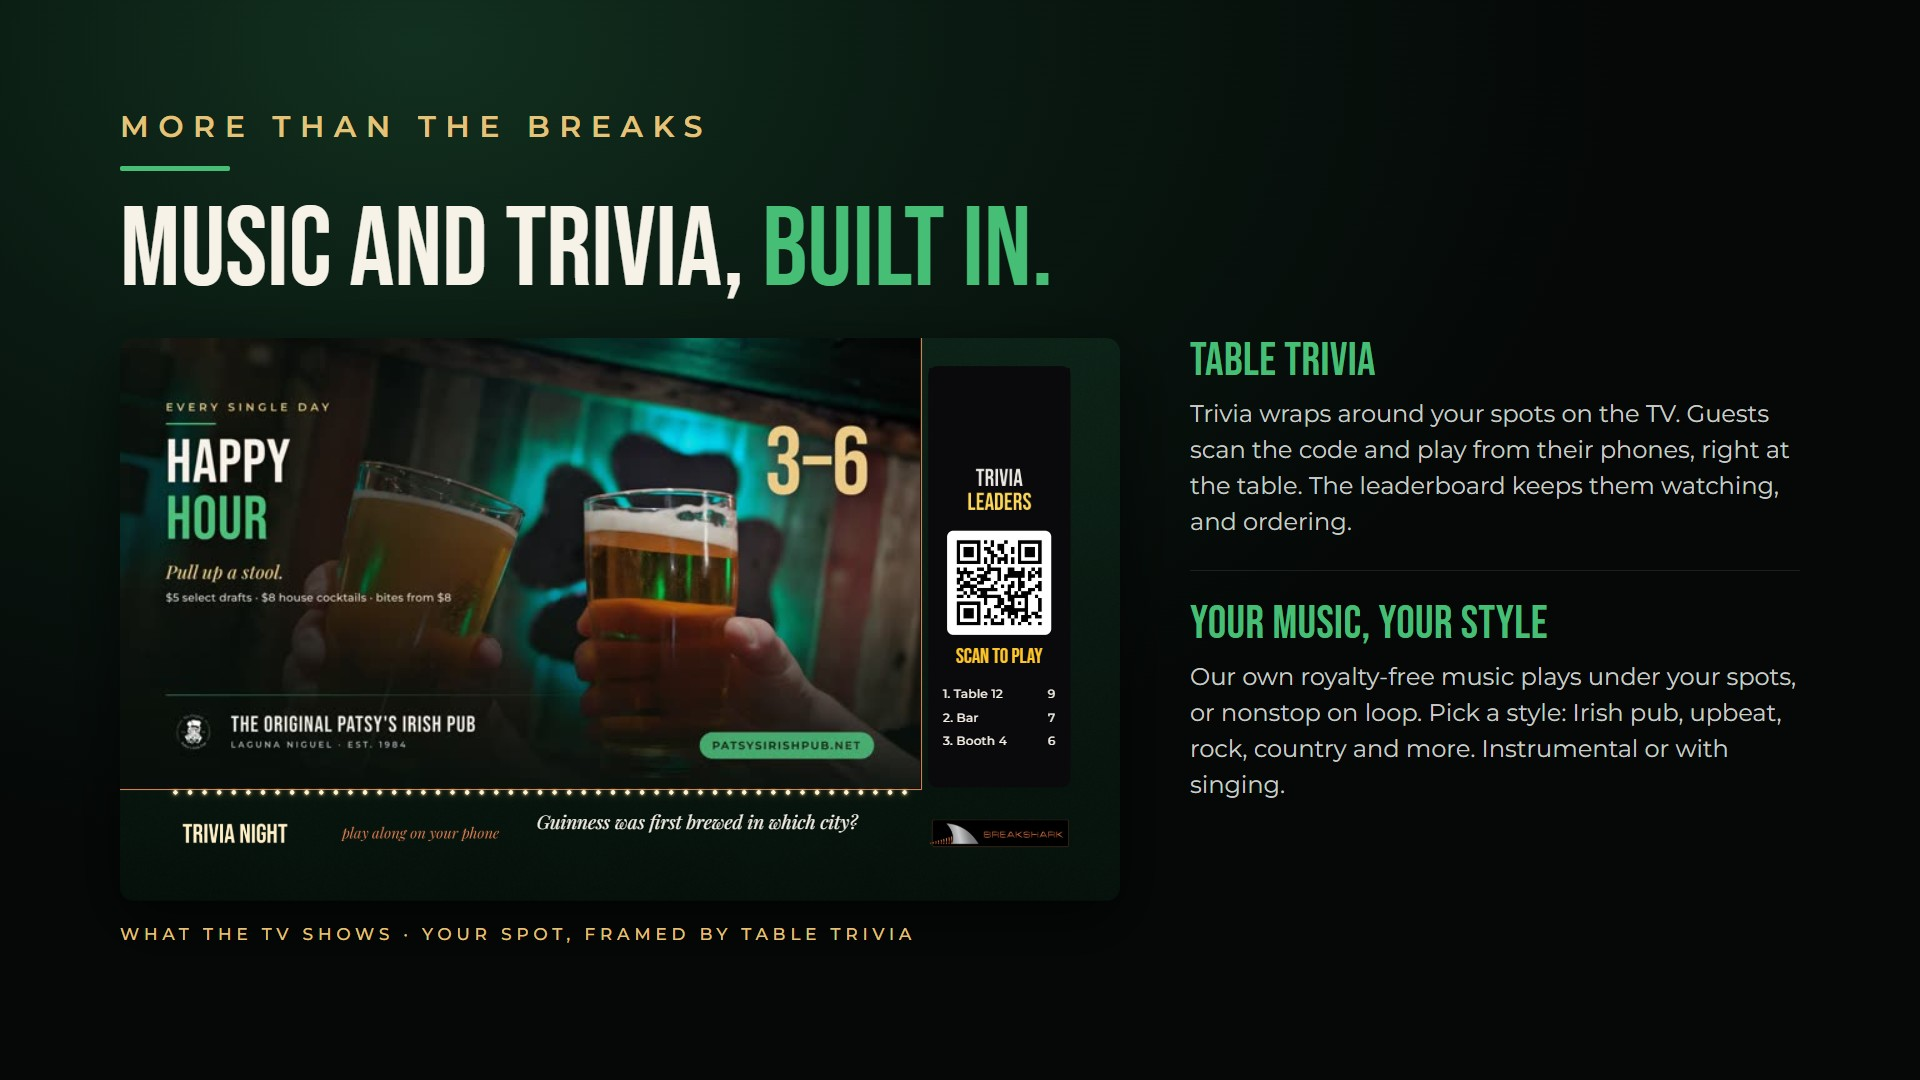
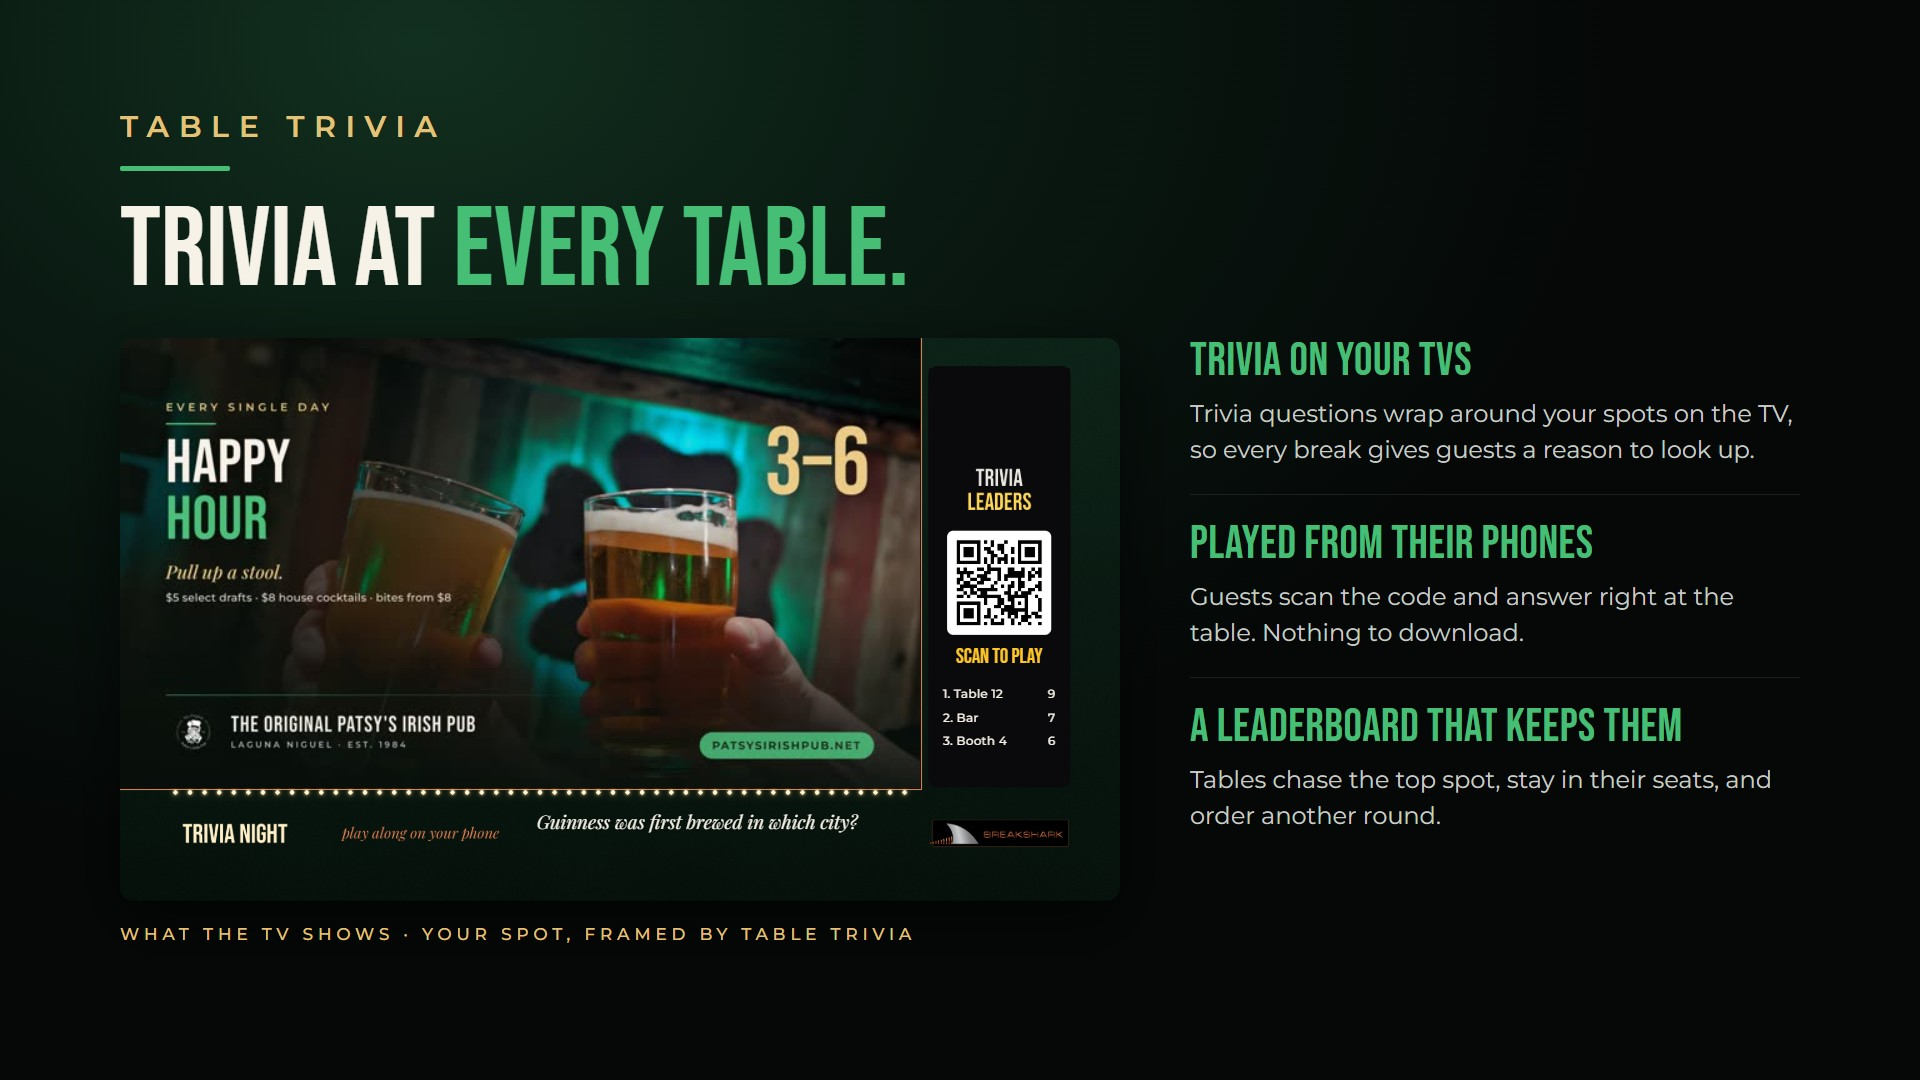
Patsy's deck: match El Viejon v3: music gets its own slide (we don't kill the vibe), trivia slide trivia-only. 19 slides.
Claude-Session: https://claude.ai/code/session_01LC3WW37KTGUweEZXA6pEhV

diff --git a/patsys-v4/index.html b/patsys-v4/index.html
@@ -37,7 +37,7 @@ html,body{margin:0;height:100%;background:var(--bg);color:var(--ink);font-family
 <div id="hint">Tap the right side or swipe to go forward</div>
 <div id="load"><div>Loading the deck…</div><div class="b"><i id="lp"></i></div><div id="lt" style="opacity:.6;font-size:13px"></div></div>
 <script>
-const SLIDES = [{"img": "s/p-01.jpg?v=10", "v": [{"src": "https://media.breakshark.com/patsys-v4/v/room.mp4?v=10", "x": 0, "y": 0, "w": 1920, "h": 1080, "r": "0px", "sound": false}], "ov": "s/ov-01.png?v=10"}, {"img": "s/p-02.jpg?v=10", "v": [{"src": "https://media.breakshark.com/patsys-v4/v/s01.mp4?v=10", "x": 1080, "y": 300, "w": 720, "h": 405, "r": "14px", "sound": false}]}, {"img": "s/p-03.jpg?v=10", "v": [{"src": "https://media.breakshark.com/patsys-v4/v/how.mp4?v=10", "x": 900, "y": 250, "w": 900, "h": 576, "r": "14px", "sound": false}]}, {"img": "s/p-04.jpg?v=10", "v": [{"src": "https://media.breakshark.com/patsys-v4/v/sbx.mp4?v=10", "x": 0, "y": 0, "w": 1920, "h": 1080, "r": "14px", "sound": false}], "ov": "s/ov-04.png?v=10"}, {"img": "s/p-05.jpg?v=10", "v": []}, {"img": "s/p-06.jpg?v=10", "v": []}, {"img": "s/p-07.jpg?v=10", "v": [{"src": "https://media.breakshark.com/patsys-v4/v/s02.mp4?v=10", "x": 120, "y": 230, "w": 820, "h": 461, "r": "14px", "sound": false}, {"src": "https://media.breakshark.com/patsys-v4/v/s03.mp4?v=10", "x": 980, "y": 230, "w": 820, "h": 461, "r": "14px", "sound": false}, {"src": "https://media.breakshark.com/patsys-v4/v/s04.mp4?v=10", "x": 120, "y": 720, "w": 500, "h": 281, "r": "14px", "sound": false}, {"src": "https://media.breakshark.com/patsys-v4/v/s07.mp4?v=10", "x": 650, "y": 720, "w": 500, "h": 281, "r": "14px", "sound": false}]}, {"img": "s/p-08.jpg?v=10", "v": [{"src": "https://media.breakshark.com/patsys-v4/v/s08.mp4?v=10", "x": 120, "y": 230, "w": 820, "h": 461, "r": "14px", "sound": false}, {"src": "https://media.breakshark.com/patsys-v4/v/s09.mp4?v=10", "x": 980, "y": 230, "w": 820, "h": 461, "r": "14px", "sound": false}, {"src": "https://media.breakshark.com/patsys-v4/v/s05.mp4?v=10", "x": 120, "y": 720, "w": 500, "h": 281, "r": "14px", "sound": false}, {"src": "https://media.breakshark.com/patsys-v4/v/s10.mp4?v=10", "x": 650, "y": 720, "w": 500, "h": 281, "r": "14px", "sound": false}]}, {"img": "s/p-09.jpg?v=10", "v": [{"src": "https://media.breakshark.com/patsys-v4/v/s19.mp4?v=10", "x": 120, "y": 230, "w": 820, "h": 461, "r": "14px", "sound": false}, {"src": "https://media.breakshark.com/patsys-v4/v/s18.mp4?v=10", "x": 980, "y": 230, "w": 820, "h": 461, "r": "14px", "sound": false}, {"src": "https://media.breakshark.com/patsys-v4/v/s12.mp4?v=10", "x": 120, "y": 720, "w": 540, "h": 304, "r": "14px", "sound": false}, {"src": "https://media.breakshark.com/patsys-v4/v/s06.mp4?v=10", "x": 690, "y": 720, "w": 540, "h": 304, "r": "14px", "sound": false}, {"src": "https://media.breakshark.com/patsys-v4/v/s11.mp4?v=10", "x": 1260, "y": 720, "w": 540, "h": 304, "r": "14px", "sound": false}]}, {"img": "s/p-10.jpg?v=10", "v": [{"src": "https://media.breakshark.com/patsys-v4/v/s13.mp4?v=10", "x": 860, "y": 150, "w": 460, "h": 259, "r": "14px", "sound": false}, {"src": "https://media.breakshark.com/patsys-v4/v/s14.mp4?v=10", "x": 1350, "y": 150, "w": 460, "h": 259, "r": "14px", "sound": false}, {"src": "https://media.breakshark.com/patsys-v4/v/s15.mp4?v=10", "x": 860, "y": 440, "w": 460, "h": 259, "r": "14px", "sound": false}, {"src": "https://media.breakshark.com/patsys-v4/v/s16.mp4?v=10", "x": 1350, "y": 440, "w": 460, "h": 259, "r": "14px", "sound": false}]}, {"img": "s/p-11.jpg?v=10", "v": [{"src": "https://media.breakshark.com/patsys-v4/v/s17b.mp4?v=10", "x": 120, "y": 250, "w": 960, "h": 540, "r": "14px", "sound": false}]}, {"img": "s/x-01.jpg?v=12", "v": [{"src": "https://media.breakshark.com/patsys-v4/v/after-hours.mp4?v=1", "x": 980, "y": 338, "w": 820, "h": 461, "r": "14px", "sound": false}]}, {"img": "s/x-02.jpg?v=12", "v": []}, {"img": "s/p-12.jpg?v=10", "v": []}, {"img": "s/p-13.jpg?v=10", "v": []}, {"img": "s/p-14.jpg?v=10", "v": []}, {"img": "s/p-15.jpg?v=10", "v": [{"src": "https://media.breakshark.com/patsys-v4/v/reel.mp4?v=10", "x": 760, "y": 200, "w": 1040, "h": 585, "r": "14px", "sound": true}]}, {"img": "s/p-16.webp?v=10", "v": [], "frame": {"src": "https://drive.google.com/file/d/1PkXY2QgrQUECcYuEOcghGNN9aMUPo6uv/preview", "x": 760, "y": 200, "w": 1040, "h": 585}}];
+const SLIDES = [{"img": "s/p-01.jpg?v=10", "v": [{"src": "https://media.breakshark.com/patsys-v4/v/room.mp4?v=10", "x": 0, "y": 0, "w": 1920, "h": 1080, "r": "0px", "sound": false}], "ov": "s/ov-01.png?v=10"}, {"img": "s/p-02.jpg?v=10", "v": [{"src": "https://media.breakshark.com/patsys-v4/v/s01.mp4?v=10", "x": 1080, "y": 300, "w": 720, "h": 405, "r": "14px", "sound": false}]}, {"img": "s/p-03.jpg?v=10", "v": [{"src": "https://media.breakshark.com/patsys-v4/v/how.mp4?v=10", "x": 900, "y": 250, "w": 900, "h": 576, "r": "14px", "sound": false}]}, {"img": "s/p-04.jpg?v=10", "v": [{"src": "https://media.breakshark.com/patsys-v4/v/sbx.mp4?v=10", "x": 0, "y": 0, "w": 1920, "h": 1080, "r": "14px", "sound": false}], "ov": "s/ov-04.png?v=10"}, {"img": "s/p-05.jpg?v=10", "v": []}, {"img": "s/p-06.jpg?v=10", "v": []}, {"img": "s/p-07.jpg?v=10", "v": [{"src": "https://media.breakshark.com/patsys-v4/v/s02.mp4?v=10", "x": 120, "y": 230, "w": 820, "h": 461, "r": "14px", "sound": false}, {"src": "https://media.breakshark.com/patsys-v4/v/s03.mp4?v=10", "x": 980, "y": 230, "w": 820, "h": 461, "r": "14px", "sound": false}, {"src": "https://media.breakshark.com/patsys-v4/v/s04.mp4?v=10", "x": 120, "y": 720, "w": 500, "h": 281, "r": "14px", "sound": false}, {"src": "https://media.breakshark.com/patsys-v4/v/s07.mp4?v=10", "x": 650, "y": 720, "w": 500, "h": 281, "r": "14px", "sound": false}]}, {"img": "s/p-08.jpg?v=10", "v": [{"src": "https://media.breakshark.com/patsys-v4/v/s08.mp4?v=10", "x": 120, "y": 230, "w": 820, "h": 461, "r": "14px", "sound": false}, {"src": "https://media.breakshark.com/patsys-v4/v/s09.mp4?v=10", "x": 980, "y": 230, "w": 820, "h": 461, "r": "14px", "sound": false}, {"src": "https://media.breakshark.com/patsys-v4/v/s05.mp4?v=10", "x": 120, "y": 720, "w": 500, "h": 281, "r": "14px", "sound": false}, {"src": "https://media.breakshark.com/patsys-v4/v/s10.mp4?v=10", "x": 650, "y": 720, "w": 500, "h": 281, "r": "14px", "sound": false}]}, {"img": "s/p-09.jpg?v=10", "v": [{"src": "https://media.breakshark.com/patsys-v4/v/s19.mp4?v=10", "x": 120, "y": 230, "w": 820, "h": 461, "r": "14px", "sound": false}, {"src": "https://media.breakshark.com/patsys-v4/v/s18.mp4?v=10", "x": 980, "y": 230, "w": 820, "h": 461, "r": "14px", "sound": false}, {"src": "https://media.breakshark.com/patsys-v4/v/s12.mp4?v=10", "x": 120, "y": 720, "w": 540, "h": 304, "r": "14px", "sound": false}, {"src": "https://media.breakshark.com/patsys-v4/v/s06.mp4?v=10", "x": 690, "y": 720, "w": 540, "h": 304, "r": "14px", "sound": false}, {"src": "https://media.breakshark.com/patsys-v4/v/s11.mp4?v=10", "x": 1260, "y": 720, "w": 540, "h": 304, "r": "14px", "sound": false}]}, {"img": "s/p-10.jpg?v=10", "v": [{"src": "https://media.breakshark.com/patsys-v4/v/s13.mp4?v=10", "x": 860, "y": 150, "w": 460, "h": 259, "r": "14px", "sound": false}, {"src": "https://media.breakshark.com/patsys-v4/v/s14.mp4?v=10", "x": 1350, "y": 150, "w": 460, "h": 259, "r": "14px", "sound": false}, {"src": "https://media.breakshark.com/patsys-v4/v/s15.mp4?v=10", "x": 860, "y": 440, "w": 460, "h": 259, "r": "14px", "sound": false}, {"src": "https://media.breakshark.com/patsys-v4/v/s16.mp4?v=10", "x": 1350, "y": 440, "w": 460, "h": 259, "r": "14px", "sound": false}]}, {"img": "s/p-11.jpg?v=10", "v": [{"src": "https://media.breakshark.com/patsys-v4/v/s17b.mp4?v=10", "x": 120, "y": 250, "w": 960, "h": 540, "r": "14px", "sound": false}]}, {"img": "s/x-01.jpg?v=14", "v": [{"src": "https://media.breakshark.com/patsys-v4/v/after-hours.mp4?v=1", "x": 980, "y": 338, "w": 820, "h": 461, "r": "14px", "sound": false}]}, {"img": "s/x-03.jpg?v=14", "v": []}, {"img": "s/x-02.jpg?v=14", "v": []}, {"img": "s/p-12.jpg?v=10", "v": []}, {"img": "s/p-13.jpg?v=10", "v": []}, {"img": "s/p-14.jpg?v=10", "v": []}, {"img": "s/p-15.jpg?v=10", "v": [{"src": "https://media.breakshark.com/patsys-v4/v/reel.mp4?v=10", "x": 760, "y": 200, "w": 1040, "h": 585, "r": "14px", "sound": true}]}, {"img": "s/p-16.webp?v=10", "v": [], "frame": {"src": "https://drive.google.com/file/d/1PkXY2QgrQUECcYuEOcghGNN9aMUPo6uv/preview", "x": 760, "y": 200, "w": 1040, "h": 585}}];
 const stage = document.getElementById('stage'), dots = document.getElementById('dots');
 let cur = 0;
 SLIDES.forEach((s, i) => {
@@ -101,7 +101,7 @@ setInterval(kick, 1500);
 addEventListener('mousemove', wake); addEventListener('touchstart', wake, { passive: true });
 setTimeout(() => document.getElementById('hint').style.opacity = 0, 4000);
 // first-load: fetch everything so it plays smoothly and keeps working offline
-const ASSETS = ["./", "index.html", "manifest.json", "icon.png", "logo.png", "s/p-01.jpg?v=10", "s/p-02.jpg?v=10", "s/p-03.jpg?v=10", "s/p-04.jpg?v=10", "s/p-05.jpg?v=10", "s/p-06.jpg?v=10", "s/p-07.jpg?v=10", "s/p-08.jpg?v=10", "s/p-09.jpg?v=10", "s/p-10.jpg?v=10", "s/p-11.jpg?v=10", "s/p-12.jpg?v=10", "s/p-13.jpg?v=10", "s/p-14.jpg?v=10", "s/p-15.jpg?v=10", "s/p-16.webp?v=10", "s/ov-01.png?v=10", "s/ov-04.png?v=10", "https://media.breakshark.com/patsys-v4/v/how.mp4?v=10", "https://media.breakshark.com/patsys-v4/v/reel.mp4?v=10", "https://media.breakshark.com/patsys-v4/v/room.mp4?v=10", "https://media.breakshark.com/patsys-v4/v/s01.mp4?v=10", "https://media.breakshark.com/patsys-v4/v/s02.mp4?v=10", "https://media.breakshark.com/patsys-v4/v/s03.mp4?v=10", "https://media.breakshark.com/patsys-v4/v/s04.mp4?v=10", "https://media.breakshark.com/patsys-v4/v/s05.mp4?v=10", "https://media.breakshark.com/patsys-v4/v/s06.mp4?v=10", "https://media.breakshark.com/patsys-v4/v/s07.mp4?v=10", "https://media.breakshark.com/patsys-v4/v/s08.mp4?v=10", "https://media.breakshark.com/patsys-v4/v/s09.mp4?v=10", "https://media.breakshark.com/patsys-v4/v/s10.mp4?v=10", "https://media.breakshark.com/patsys-v4/v/s11.mp4?v=10", "https://media.breakshark.com/patsys-v4/v/s12.mp4?v=10", "https://media.breakshark.com/patsys-v4/v/s13.mp4?v=10", "https://media.breakshark.com/patsys-v4/v/s14.mp4?v=10", "https://media.breakshark.com/patsys-v4/v/s15.mp4?v=10", "https://media.breakshark.com/patsys-v4/v/s16.mp4?v=10", "https://media.breakshark.com/patsys-v4/v/s17b.mp4?v=10", "https://media.breakshark.com/patsys-v4/v/s18.mp4?v=10", "https://media.breakshark.com/patsys-v4/v/s19.mp4?v=10", "https://media.breakshark.com/patsys-v4/v/sbx.mp4?v=10", "v/reel.jpg?v=10", "s/x-01.jpg?v=12", "s/x-02.jpg?v=12", "https://media.breakshark.com/patsys-v4/v/after-hours.mp4?v=1", "sw.js"];
+const ASSETS = ["./", "index.html", "manifest.json", "icon.png", "logo.png", "s/p-01.jpg?v=10", "s/p-02.jpg?v=10", "s/p-03.jpg?v=10", "s/p-04.jpg?v=10", "s/p-05.jpg?v=10", "s/p-06.jpg?v=10", "s/p-07.jpg?v=10", "s/p-08.jpg?v=10", "s/p-09.jpg?v=10", "s/p-10.jpg?v=10", "s/p-11.jpg?v=10", "s/p-12.jpg?v=10", "s/p-13.jpg?v=10", "s/p-14.jpg?v=10", "s/p-15.jpg?v=10", "s/p-16.webp?v=10", "s/ov-01.png?v=10", "s/ov-04.png?v=10", "https://media.breakshark.com/patsys-v4/v/how.mp4?v=10", "https://media.breakshark.com/patsys-v4/v/reel.mp4?v=10", "https://media.breakshark.com/patsys-v4/v/room.mp4?v=10", "https://media.breakshark.com/patsys-v4/v/s01.mp4?v=10", "https://media.breakshark.com/patsys-v4/v/s02.mp4?v=10", "https://media.breakshark.com/patsys-v4/v/s03.mp4?v=10", "https://media.breakshark.com/patsys-v4/v/s04.mp4?v=10", "https://media.breakshark.com/patsys-v4/v/s05.mp4?v=10", "https://media.breakshark.com/patsys-v4/v/s06.mp4?v=10", "https://media.breakshark.com/patsys-v4/v/s07.mp4?v=10", "https://media.breakshark.com/patsys-v4/v/s08.mp4?v=10", "https://media.breakshark.com/patsys-v4/v/s09.mp4?v=10", "https://media.breakshark.com/patsys-v4/v/s10.mp4?v=10", "https://media.breakshark.com/patsys-v4/v/s11.mp4?v=10", "https://media.breakshark.com/patsys-v4/v/s12.mp4?v=10", "https://media.breakshark.com/patsys-v4/v/s13.mp4?v=10", "https://media.breakshark.com/patsys-v4/v/s14.mp4?v=10", "https://media.breakshark.com/patsys-v4/v/s15.mp4?v=10", "https://media.breakshark.com/patsys-v4/v/s16.mp4?v=10", "https://media.breakshark.com/patsys-v4/v/s17b.mp4?v=10", "https://media.breakshark.com/patsys-v4/v/s18.mp4?v=10", "https://media.breakshark.com/patsys-v4/v/s19.mp4?v=10", "https://media.breakshark.com/patsys-v4/v/sbx.mp4?v=10", "v/reel.jpg?v=10", "https://media.breakshark.com/patsys-v4/v/after-hours.mp4?v=1", "s/x-01.jpg?v=14", "s/x-03.jpg?v=14", "s/x-02.jpg?v=14", "sw.js"];
 (async () => {
   if ('serviceWorker' in navigator) { try { await navigator.serviceWorker.register('sw.js'); } catch (e) {} }
   let done = 0; const lp = document.getElementById('lp'), lt = document.getElementById('lt');
